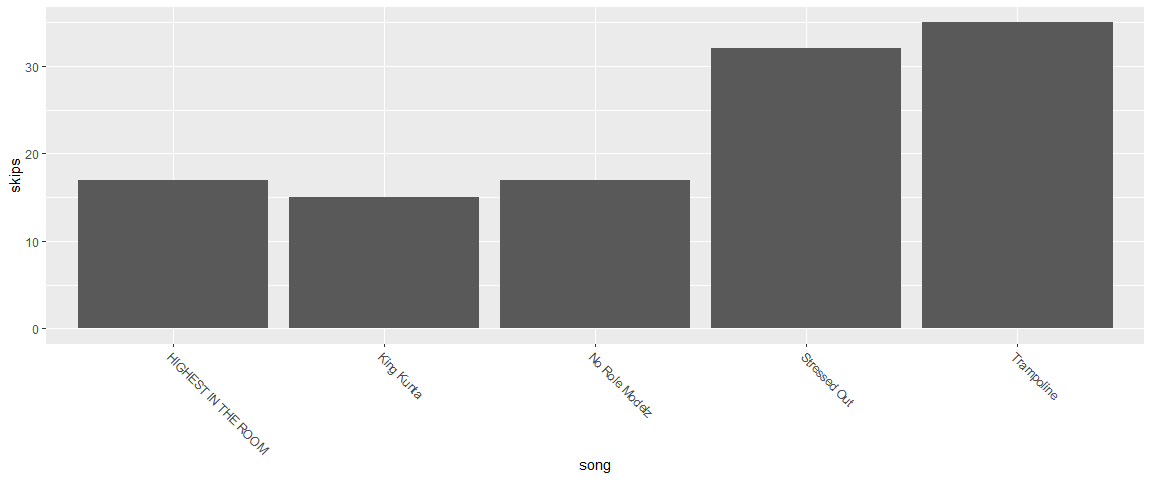
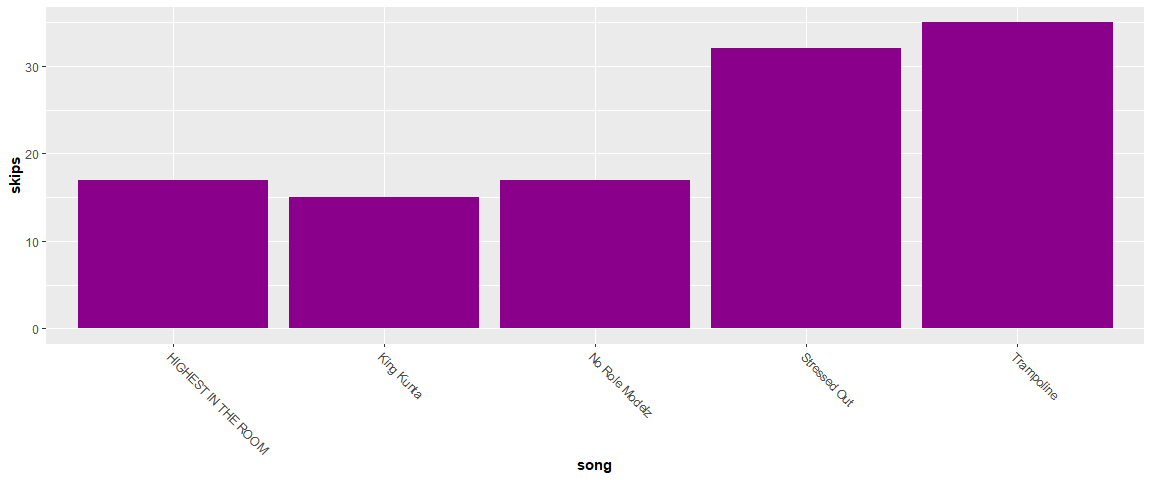
updated readme with more examples

diff --git a/README.md b/README.md
@@ -44,7 +44,7 @@ You can install the development version of myspotify from
 ``` r
 # install.packages("devtools")
 devtools::install_github("audreykim640/myspotify")
-#> Skipping install of 'myspotify' from a github remote, the SHA1 (8b4b184e) has not changed since last install.
+#> Skipping install of 'myspotify' from a github remote, the SHA1 (4eb39ca5) has not changed since last install.
 #>   Use `force = TRUE` to force installation
 ```
 
@@ -96,11 +96,33 @@ skipped_songs <- extended_example %>%
   head(5)
   
 ggplot(skipped_songs, aes(x = song, y = skips)) +
-  geom_col() +
-  theme(axis.text.x = element_text(angle = -45, hjust = 0))
+  geom_col(fill= "darkmagenta") +
+  theme(axis.text.x = element_text(angle = -45, hjust = 0)) +
+  theme(axis.title = element_text(face="bold"))
 ```
 
 <img src="man/figures/README-examples pt 2-1.png" width="100%" />
+
+``` r
+#Search for a specific word or phrase in a song name 
+#Returns a data frame
+
+search_word(extended_example, "Christmas")
+#>                             song       artist                   album
+#> 1 Cuddle Up, Cozy Down Christmas Dolly Parton A Holly Dolly Christmas
+#> 2                 Last Christmas        Wham!          LAST CHRISTMAS
+
+#Returns all songs streamed with "Christmas in the title
+```
+
+``` r
+#Make a plot of the top ten artists/bands you have streamed of all time
+
+most_played_artists(extended_example)
+#> [1] "Your most played artist of all time is Taylor Swift! Followed by (the)Bee Gees and Olivia Rodrigo"
+```
+
+<img src="man/figures/README-examples pt-1.png" width="100%" />
 
 ## Note about testing
 
